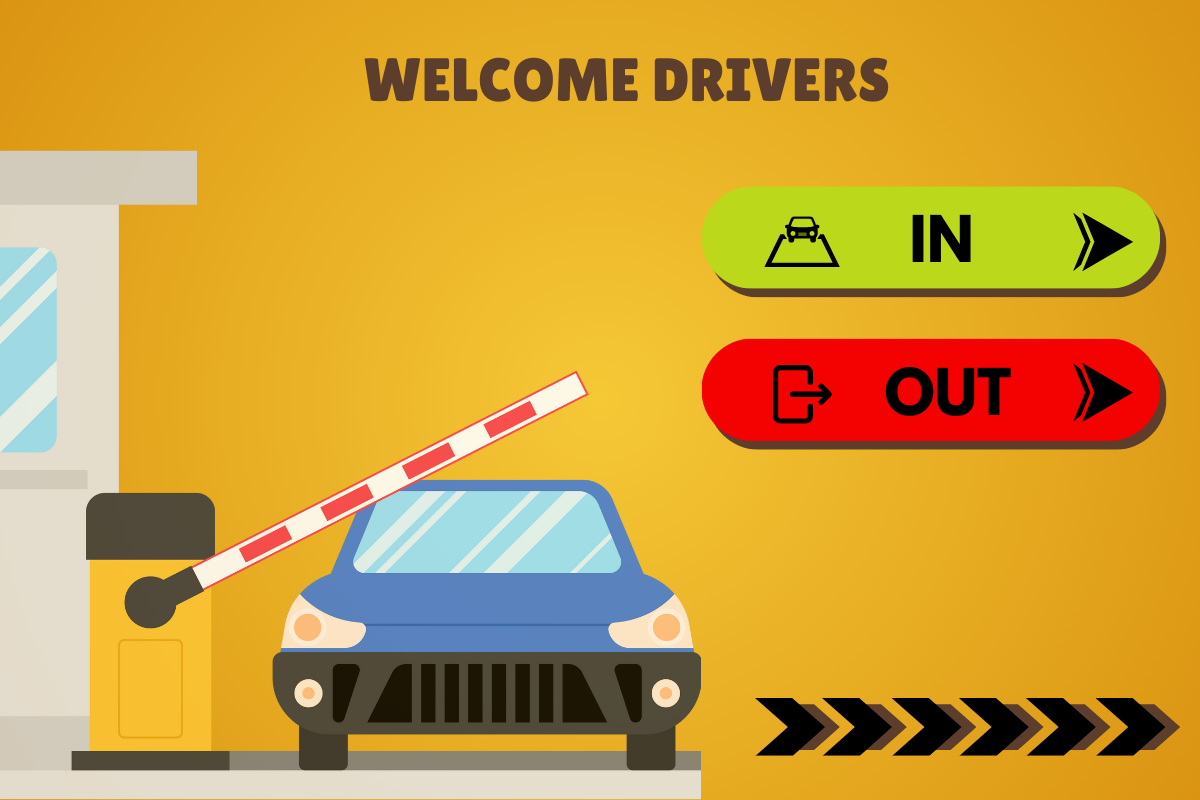
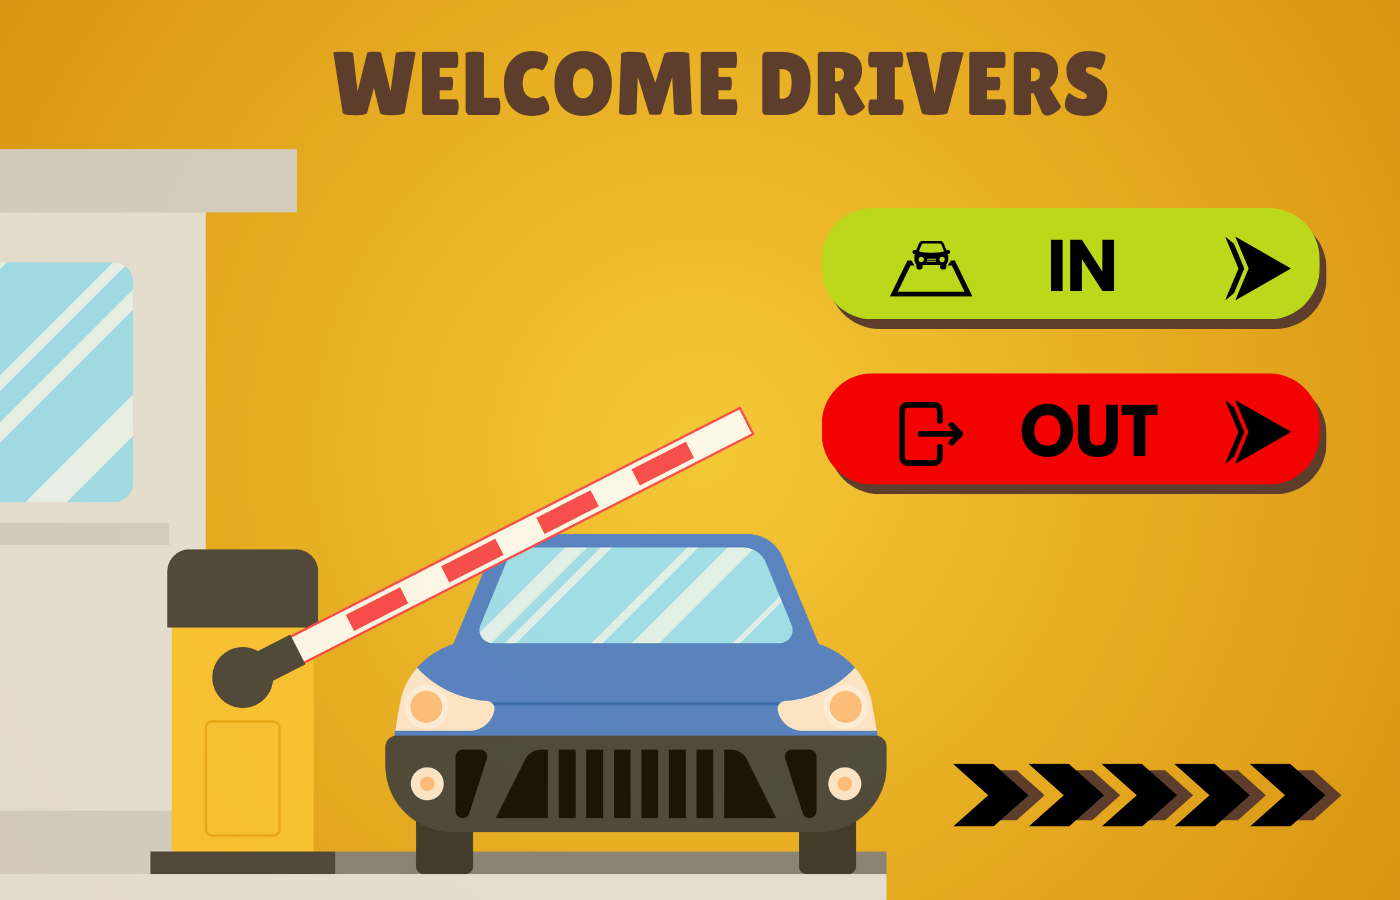
aryan

diff --git a/src/parkingqueuingsystem/QueuingScreen.java b/src/parkingqueuingsystem/QueuingScreen.java
@@ -8,12 +8,12 @@ package parkingqueuingsystem;
  *
  * @author Airi
  */
-public class IN_OUT extends javax.swing.JFrame {
+public class QueuingScreen extends javax.swing.JFrame {
 
     /**
-     * Creates new form IN_OUT
+     * Creates new form QueuingScreen
      */
-    public IN_OUT() {
+    public QueuingScreen() {
         initComponents();
     }
 
@@ -29,20 +29,11 @@ public class IN_OUT extends javax.swing.JFrame {
         jLabel1 = new javax.swing.JLabel();
 
         setDefaultCloseOperation(javax.swing.WindowConstants.EXIT_ON_CLOSE);
-        setBounds(new java.awt.Rectangle(50, 50, 0, 0));
+        setBounds(new java.awt.Rectangle(1500, 150, 0, 0));
+        getContentPane().setLayout(new org.netbeans.lib.awtextra.AbsoluteLayout());
 
-        jLabel1.setIcon(new javax.swing.ImageIcon(getClass().getResource("/parkingqueuingsystem/IMAGE/IN_OUT.png"))); // NOI18N
-
-        javax.swing.GroupLayout layout = new javax.swing.GroupLayout(getContentPane());
-        getContentPane().setLayout(layout);
-        layout.setHorizontalGroup(
-            layout.createParallelGroup(javax.swing.GroupLayout.Alignment.LEADING)
-            .addComponent(jLabel1)
-        );
-        layout.setVerticalGroup(
-            layout.createParallelGroup(javax.swing.GroupLayout.Alignment.LEADING)
-            .addComponent(jLabel1)
-        );
+        jLabel1.setIcon(new javax.swing.ImageIcon(getClass().getResource("/parkingqueuingsystem/IMAGE/2ND UI DATASTRUC.png"))); // NOI18N
+        getContentPane().add(jLabel1, new org.netbeans.lib.awtextra.AbsoluteConstraints(0, 0, 350, 670));
 
         pack();
     }// </editor-fold>//GEN-END:initComponents
@@ -64,20 +55,20 @@ public class IN_OUT extends javax.swing.JFrame {
                 }
             }
         } catch (ClassNotFoundException ex) {
-            java.util.logging.Logger.getLogger(IN_OUT.class.getName()).log(java.util.logging.Level.SEVERE, null, ex);
+            java.util.logging.Logger.getLogger(QueuingScreen.class.getName()).log(java.util.logging.Level.SEVERE, null, ex);
         } catch (InstantiationException ex) {
-            java.util.logging.Logger.getLogger(IN_OUT.class.getName()).log(java.util.logging.Level.SEVERE, null, ex);
+            java.util.logging.Logger.getLogger(QueuingScreen.class.getName()).log(java.util.logging.Level.SEVERE, null, ex);
         } catch (IllegalAccessException ex) {
-            java.util.logging.Logger.getLogger(IN_OUT.class.getName()).log(java.util.logging.Level.SEVERE, null, ex);
+            java.util.logging.Logger.getLogger(QueuingScreen.class.getName()).log(java.util.logging.Level.SEVERE, null, ex);
         } catch (javax.swing.UnsupportedLookAndFeelException ex) {
-            java.util.logging.Logger.getLogger(IN_OUT.class.getName()).log(java.util.logging.Level.SEVERE, null, ex);
+            java.util.logging.Logger.getLogger(QueuingScreen.class.getName()).log(java.util.logging.Level.SEVERE, null, ex);
         }
         //</editor-fold>
 
         /* Create and display the form */
         java.awt.EventQueue.invokeLater(new Runnable() {
             public void run() {
-                new IN_OUT().setVisible(true);
+                new QueuingScreen().setVisible(true);
             }
         });
     }

diff --git a/src/parkingqueuingsystem/Start.java b/src/parkingqueuingsystem/Start.java
@@ -18,6 +18,7 @@ public class Start extends javax.swing.JFrame {
         jLabel1 = new javax.swing.JLabel();
 
         setDefaultCloseOperation(javax.swing.WindowConstants.EXIT_ON_CLOSE);
+        setBounds(new java.awt.Rectangle(50, 50, 0, 0));
         getContentPane().setLayout(new org.netbeans.lib.awtextra.AbsoluteLayout());
 
         jButton1.setToolTipText("");
@@ -30,10 +31,10 @@ public class Start extends javax.swing.JFrame {
                 jButton1ActionPerformed(evt);
             }
         });
-        getContentPane().add(jButton1, new org.netbeans.lib.awtextra.AbsoluteConstraints(100, 490, 250, 70));
+        getContentPane().add(jButton1, new org.netbeans.lib.awtextra.AbsoluteConstraints(100, 490, 320, 120));
 
         jLabel1.setIcon(new javax.swing.ImageIcon(getClass().getResource("/parkingqueuingsystem/IMAGE/Start.png"))); // NOI18N
-        getContentPane().add(jLabel1, new org.netbeans.lib.awtextra.AbsoluteConstraints(0, 0, -1, -1));
+        getContentPane().add(jLabel1, new org.netbeans.lib.awtextra.AbsoluteConstraints(0, -40, -1, 900));
 
         pack();
     }// </editor-fold>//GEN-END:initComponents

diff --git a/src/parkingqueuingsystem/Selectpark.java b/src/parkingqueuingsystem/Selectpark.java
@@ -32,6 +32,7 @@ public class Selectpark extends javax.swing.JFrame {
         selectpark = new javax.swing.JLabel();
 
         setDefaultCloseOperation(javax.swing.WindowConstants.EXIT_ON_CLOSE);
+        setBounds(new java.awt.Rectangle(50, 50, 0, 0));
         getContentPane().setLayout(new org.netbeans.lib.awtextra.AbsoluteLayout());
 
         jLabel2.setText("jLabel2");

diff --git a/src/parkingqueuingsystem/ParkingQueuingSystem.java b/src/parkingqueuingsystem/ParkingQueuingSystem.java
@@ -14,6 +14,11 @@ public class ParkingQueuingSystem {
           Start lc = new Start();
        lc.setVisible(true);
 
+       
+       QueuingScreen sc = new QueuingScreen();
+       sc.setVisible(true);
+       
+       
     }
     
 }
